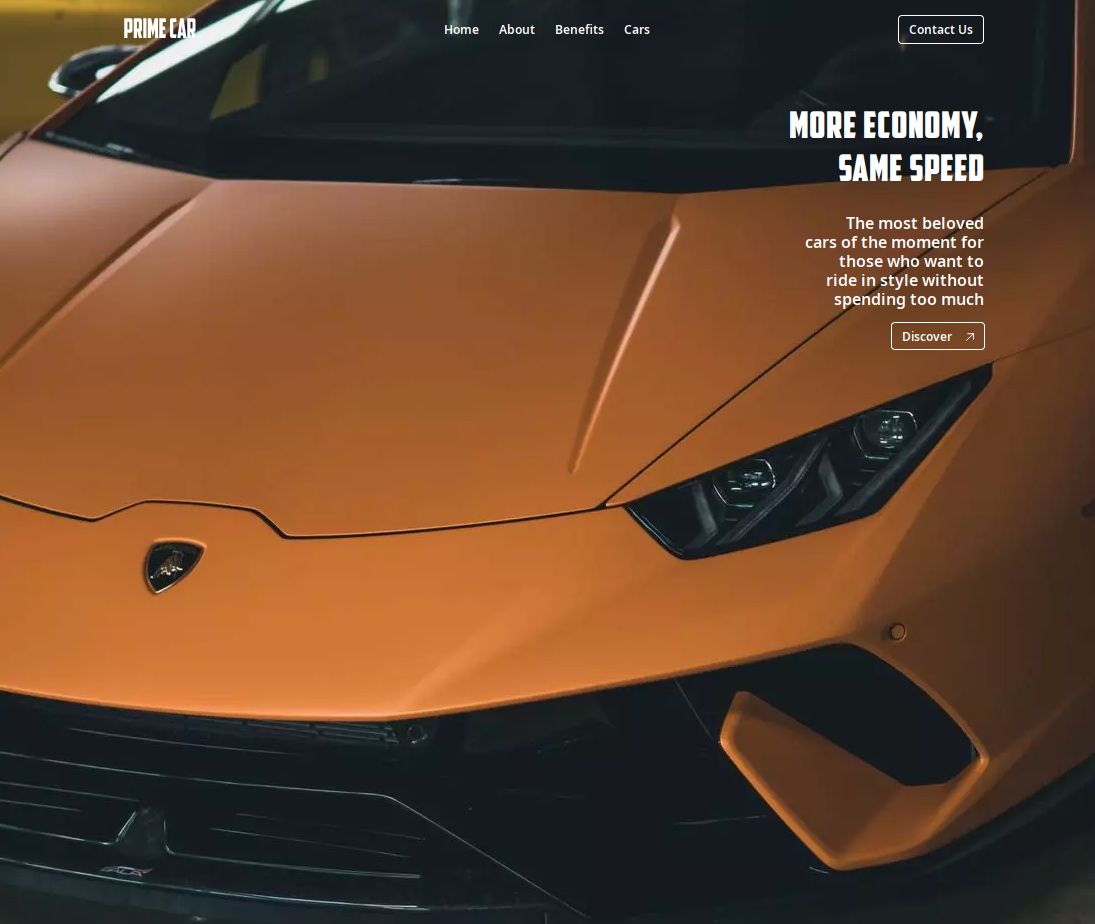
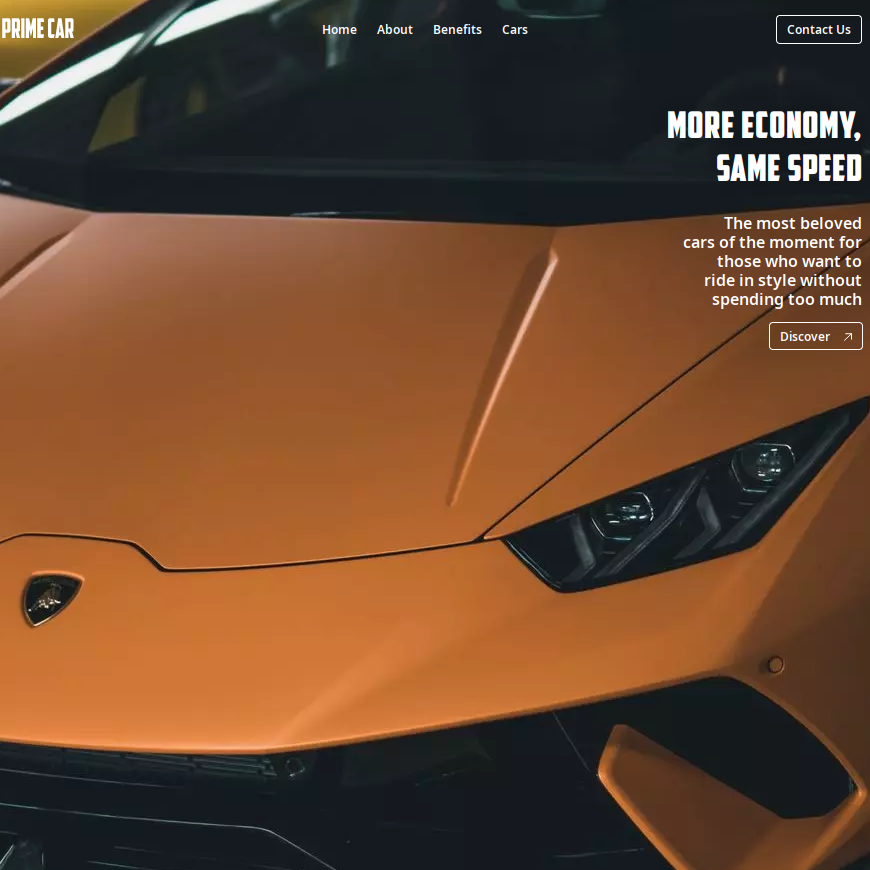
21.03.2024

diff --git a/src/pages/about/about.ts b/src/pages/about/about.ts
@@ -2,9 +2,9 @@ import 'interfaces/interfaces.ts';
 
 export const about: IAbout = {
   text1:
-    'Мне 22. Программист с незаконченным Высшим образованием. Закончил 3 курса Харьковского Национального Университета Радиоэлектроники, факультет "Компьютерная инженерия и управление". Живу в России.',
+    'Мне 22. Программист с незаконченным высшим образованием. Закончил 3 курса ХНУРЭ, факультет "Компьютерная инженерия и управление". Живу в России.',
   text2:
-    'Есть некий опыт в разработке SPA приложений с использованием библиотеки ReactJS. Нацелен на достижение результатов и готов принять вызовы, которые требуют креативного мышления и решения сложных задач. Преобладаю желанием к саморазвитию и обновлению своих навыков.',
+    'Имею некоммерческий опыт в разработке SPA приложений с использованием библиотеки ReactJS. Стек технологий, использующий в проектах, знаю на базовом уровне. Исходники проектов можно глянуть на GitHub.',
   text3:
-    'Стремлюсь присоединиться к компании, где смогу применить свои знания и опыт, внося вклад в разработку инновационного программного обеспечения.',
+    'Ищу возможность реализовать полученные знания и опыт разработки на реальных проектах. Если у Вас есть предложение, напишите мне на почту.    Готов к сотрудничеству!',
 };

diff --git a/src/components/layout/Layout.module.scss b/src/components/layout/Layout.module.scss
@@ -1,18 +1,15 @@
 @import 'assets/keyframes.scss';
 
 .layout {
-  @apply min-h-[100vh] px-2;
+  @apply h-[100vh] px-2;
   main {
-    @apply sm:p-2 xl:max-w-[85%] text-[#ffff] p-5 rounded-[16px] w-full bg-[#0b0b0bb7] backdrop-blur-[15px];
+    @apply sm:p-2 xl:max-w-[85%] text-[#ffff] p-5 rounded-[16px] w-full bg-[#0b0b0bb7] backdrop-blur-[15px] lg:min-h-[730px] min-h-[550px] flex flex-col justify-center;
     animation: neon 2s ease-in-out infinite alternate;
     h1 {
       @apply sm:text-[20px] text-[35px] xl:text-[25px];
     }
     h2 {
       @apply sm:text-[20px] xl:text-[25px];
-    }
-    p {
-      @apply sm:text-[15px] xl:text-[20px];
     }
     a {
       @apply sm:text-[20px];
@@ -24,5 +21,5 @@
 }
 
 .container {
-  @apply flex gap-2 items-center max-w-[1200px] m-auto min-h-[100vh] lg:flex-col;
+  @apply flex gap-2 items-center max-w-[1250px] m-auto min-h-[100vh] lg:flex-col;
 }

diff --git a/src/assets/index.css b/src/assets/index.css
@@ -16,10 +16,26 @@
   -moz-osx-font-smoothing: grayscale;
 }
 body {
-  background-image: url('/images/main-bg.jpg');
-  background-size: cover;
-  background-repeat: no-repeat;
-  background-position: top center;
+  background-image: radial-gradient(
+    circle at 50% 50%,
+    #00366a 0,
+    #00356b 6.25%,
+    #00336b 12.5%,
+    #00306a 18.75%,
+    #032d69 25%,
+    #202a66 31.25%,
+    #2f2762 37.5%,
+    #3b235e 43.75%,
+    #441f59 50%,
+    #4c1b53 56.25%,
+    #52164d 62.5%,
+    #581247 68.75%,
+    #5c0d40 75%,
+    #5f0a39 81.25%,
+    #610732 87.5%,
+    #62072b 93.75%,
+    #620825 100%
+  );
 }
 
 .slick-dots li button::before {

diff --git a/src/pages/stack/stack.ts b/src/pages/stack/stack.ts
@@ -4,7 +4,7 @@ export const stack: IStack[] = [
   { id: 1, data: 'Html' },
   { id: 2, data: 'CSS(SCSS, Tailwindcss)' },
   { id: 3, data: 'JavaScript' },
-  { id: 4, data: 'React JS' },
-  { id: 5, data: 'State management - Redux Toolkit' },
+  { id: 4, data: 'React JS/TS' },
+  { id: 5, data: 'State management - Redux Toolkit, Zustand' },
   { id: 6, data: 'Контроль версий - Git' },
 ];

diff --git a/src/components/projects-slider/ProjectsSlider.module.scss b/src/components/projects-slider/ProjectsSlider.module.scss
@@ -3,7 +3,7 @@
 }
 
 .sliderImage {
-  @apply lg:max-w-[100%] max-w-[340px] max-h-[340px] lg:overflow-y-hidden;
+  @apply lg:max-w-[100%] max-w-[340px] max-h-[340px] lg:max-h-[300px] lg:overflow-y-hidden;
   img {
     @apply w-full h-full object-cover;
   }

diff --git a/src/pages/about/About.module.scss b/src/pages/about/About.module.scss
@@ -4,6 +4,6 @@
     @apply mb-4;
   }
   p {
-    @apply sm:text-center mb-2 last:mb-0 first-letter:pl-2;
+    @apply sm:text-center sm:text-[14px] mb-2 last:mb-0 first-letter:pl-2 text-[23px];
   }
 }

diff --git a/src/pages/stack/Stack.module.scss b/src/pages/stack/Stack.module.scss
@@ -2,9 +2,6 @@
   h1 {
     @apply mb-4;
   }
-  p {
-    @apply text-[25px];
-  }
 
   ul {
     li {
